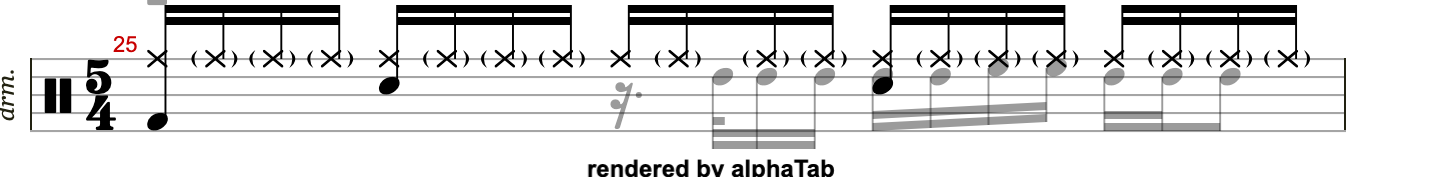
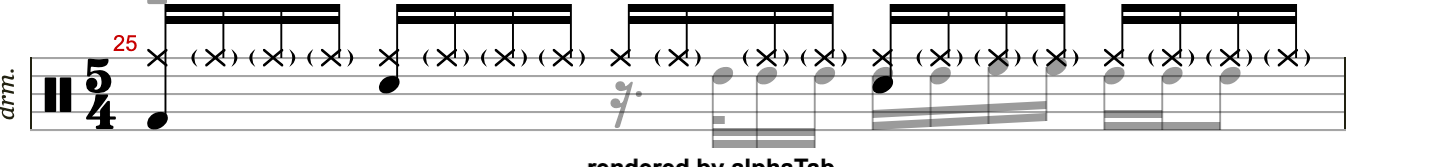
overflow: watermelon-chart-toms

diff --git a/watermelon-chart-toms/index.html b/watermelon-chart-toms/index.html
@@ -116,20 +116,21 @@ footer{color:var(--muted);font-size:13px;text-align:center;margin-top:40px}
 <section>
 <h2>Skip anything with an x on it</h2>
 <p>The top line carries two instruments at once: the ride, drawn with <b>x noteheads</b>, and a tom, drawn with <b>filled ovals</b>. Reading the top line naively would import the whole ride part as toms.</p>
-<p>The two separate on ink. Measuring the mean darkness of a five by five pixel box centred on each head, an x leaves its four edge midpoints on white paper and a filled oval does not:</p>
+<p>The two separate on ink. Measuring the mean darkness of a five by five pixel box centred on each head, an x leaves its four edge midpoints on white paper and a filled oval does not. On the top line, where the decision actually has to be made, the two populations do not touch:</p>
 <div class="scroll">
 <table>
 <thead><tr><th>Population</th><th class="num">Count</th><th class="num">Ink, mean of a 5&times;5 box</th><th>Reading</th></tr></thead>
 <tbody>
-<tr><td>x noteheads on the top line</td><td class="num">73</td><td class="num">100 to 125</td><td>ride, skipped</td></tr>
-<tr><td>watermark letters and scan noise</td><td class="num">~35</td><td class="num">130 to 160</td><td>not notation, skipped</td></tr>
-<tr><td><b>nothing at all</b></td><td class="num">0</td><td class="num"><b>160 to 180</b></td><td>the empty gap that makes the cut safe</td></tr>
-<tr><td>filled tom heads</td><td class="num">179</td><td class="num">186 to 220</td><td>kept</td></tr>
+<tr><td>x noteheads, top line</td><td class="num">57</td><td class="num">104 to 127</td><td>ride, skipped</td></tr>
+<tr><td>watermark letters and noise, top line</td><td class="num">18</td><td class="num">131 to 158</td><td>not notation, skipped</td></tr>
+<tr><td><b>nothing at all, top line</b></td><td class="num">0</td><td class="num"><b>159 to 185</b></td><td>the empty gap that makes the cut safe</td></tr>
+<tr><td>filled tom heads, all three lanes</td><td class="num">179</td><td class="num">186 to 220</td><td>kept</td></tr>
 <tr><td>snare, a filled control</td><td class="num">154</td><td class="num">median 220</td><td>control</td></tr>
-<tr><td>kick, a filled control</td><td class="num">409</td><td class="num">median 201</td><td>control</td></tr>
+<tr><td>kick, a filled control</td><td class="num">410</td><td class="num">median 201</td><td>control</td></tr>
 </tbody>
 </table>
 </div>
+<p>Across all three tom lanes the same cut skips <b>64 x-like marks, 33 watermark fragments and 4 more in the 160 to 180 band</b>, and keeps 179.</p>
 <div class="proof">
 <b>All 179 kept heads were then looked at, not sampled.</b> Every one was cropped at 16&times; and inspected on a contact sheet. Every tile is a solid oval. Not one x survived the cut.
 </div>
@@ -232,7 +233,7 @@ footer{color:var(--muted);font-size:13px;text-align:center;margin-top:40px}
 <h3>What is still uncertain</h3>
 <ul>
 <li>The scan is 595 by 842 pixels and a notehead is 4 to 5 pixels across, so the snare reads <b>154 heads against the tab's 193</b>. The reader misses some heads in the busiest bars. Every miss is a tom the tab still lacks, never a tom invented.</li>
-<li>The chart writes <b>409 kicks against the tab's 107</b>. That gap was measured in passing and is not touched by this build, which adds toms and nothing else.</li>
+<li>The chart writes <b>410 kicks against the tab's 107</b>. That gap was measured in passing and is not touched by this build, which adds toms and nothing else.</li>
 <li>A rescan at 12 or more pixels per notehead would settle both. Every method above already works and would simply get more of the page.</li>
 </ul>
 </section>

diff --git a/watermelon-chart-toms/index.md b/watermelon-chart-toms/index.md
@@ -40,11 +40,16 @@ takes the highest tom slot the kit does have. Pitch order survives, 50 above 48 
 The top line carries the ride as x noteheads and a tom as filled ovals. They separate on ink,
 measured as the mean darkness of a 5x5 box on the head:
 
-- x noteheads: 100 to 125 (73 of them, skipped)
-- watermark letters and noise: 130 to 160 (skipped)
-- **nothing at all between 160 and 180**
-- filled tom heads: 186 to 220 (179 kept)
-- controls: snare median 220, kick median 201
+On the top line, where the decision has to be made:
+
+- x noteheads: ink 104 to 127 (57 of them, skipped)
+- watermark letters and noise: ink 131 to 158 (18, skipped)
+- **nothing at all between 159 and 185**
+- filled tom heads: ink 186 to 220 (35 on the top line, 179 across all three tom lanes, kept)
+- controls: snare 154 heads median 220, kick 410 heads median 201
+
+Across all three tom lanes the cut skips 64 x-like marks, 33 watermark fragments and 4 in the
+160 to 180 band.
 
 All 179 kept heads were then looked at on a 16x contact sheet. Every tile is a solid oval.
 
@@ -77,7 +82,7 @@ sixty-fourth grid (1/12 of a sixteenth away, about 1 px).
 - The scan is 595x842 and a notehead is 4 to 5 px. The reader finds 154 snare heads against
   the tab's 193, so it misses some in the busiest bars. Every miss is a tom still absent,
   never a tom invented.
-- The chart writes 409 kicks against the tab's 107. Measured in passing, not acted on.
+- The chart writes 410 kicks against the tab's 107. Measured in passing, not acted on.
 - A rescan at 12+ px per notehead would settle both.
 
 ## Tools
